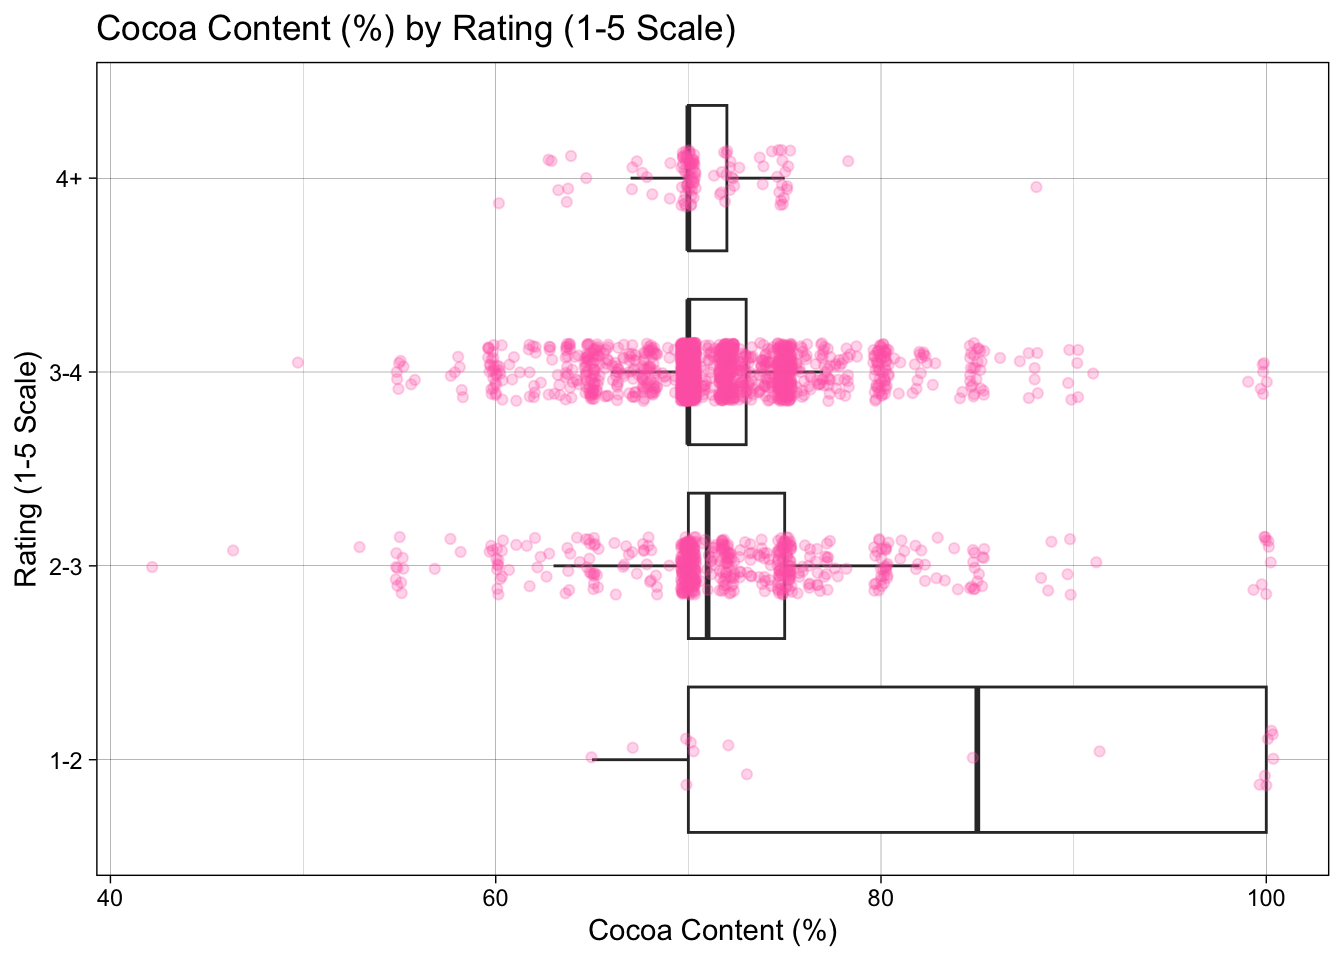
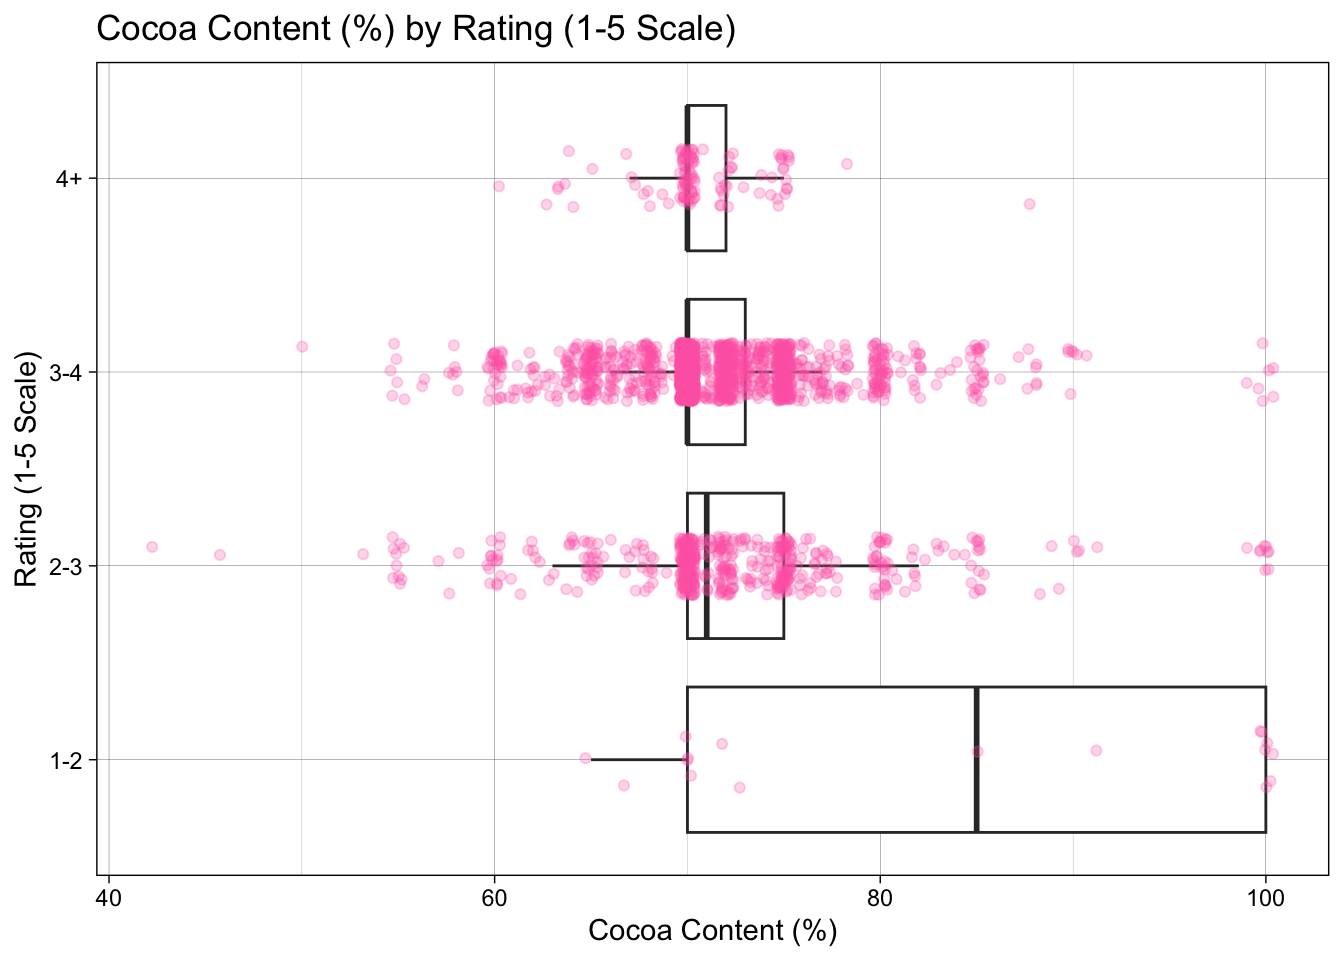
portfolio project add

diff --git a/docs/about.html b/docs/about.html
@@ -100,6 +100,10 @@ ul.task-list li input[type="checkbox"] {
     <a class="nav-link active" href="./about.html" aria-current="page"> 
 <span class="menu-text">About Me</span></a>
   </li>  
+  <li class="nav-item">
+    <a class="nav-link" href="./Portfolio/portfolio-project.html"> 
+<span class="menu-text">Portfolio Project</span></a>
+  </li>  
 </ul>
           </div> <!-- /navcollapse -->
             <div class="quarto-navbar-tools">

diff --git a/docs/index.html b/docs/index.html
@@ -99,6 +99,10 @@ ul.task-list li input[type="checkbox"] {
     <a class="nav-link" href="./about.html"> 
 <span class="menu-text">About Me</span></a>
   </li>  
+  <li class="nav-item">
+    <a class="nav-link" href="./Portfolio/portfolio-project.html"> 
+<span class="menu-text">Portfolio Project</span></a>
+  </li>  
 </ul>
           </div> <!-- /navcollapse -->
             <div class="quarto-navbar-tools">